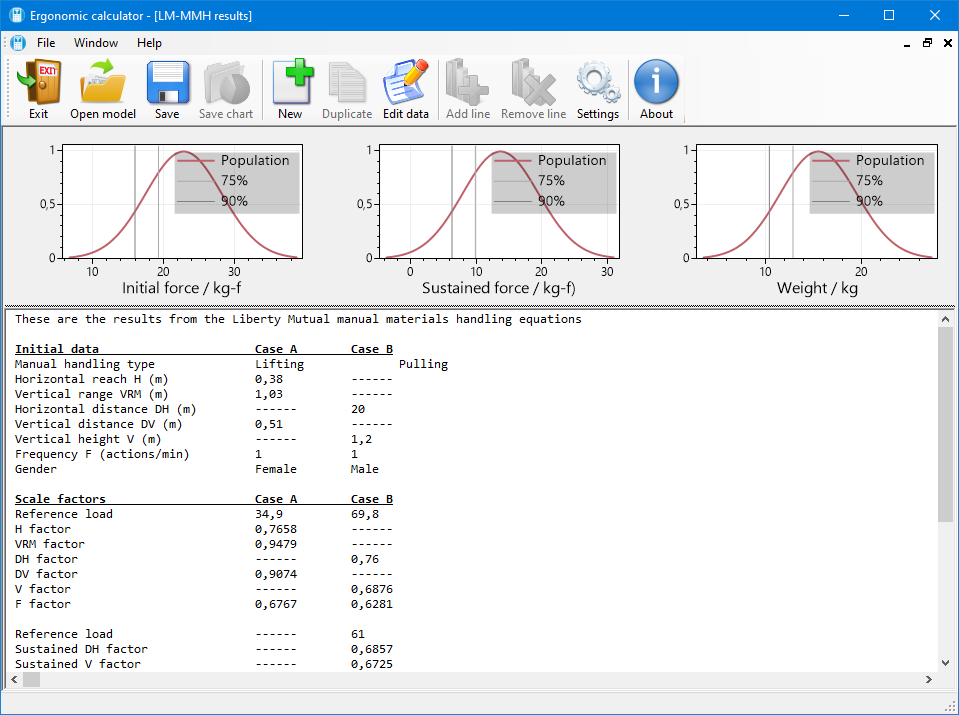
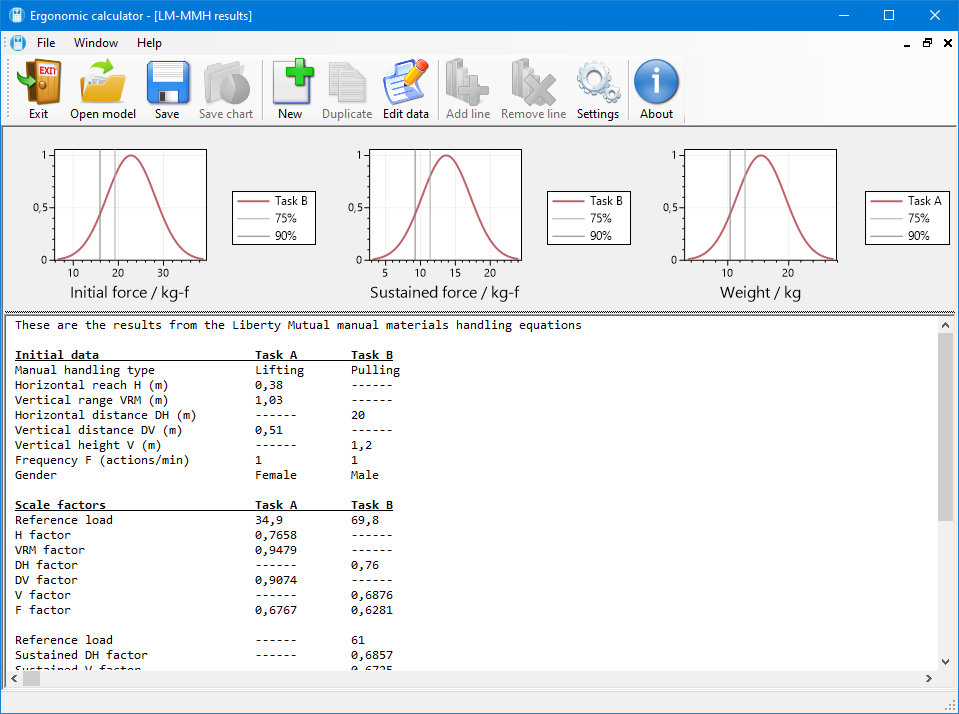
Update to version 1.6

diff --git a/ErgoCalc/frmResultsLiberty.Designer.cs b/ErgoCalc/frmResultsLiberty.Designer.cs
@@ -29,7 +29,6 @@ namespace ErgoCalc
         /// </summary>
         private void InitializeComponent()
         {
-            this.components = new System.ComponentModel.Container();
             this.splitContainer1 = new System.Windows.Forms.SplitContainer();
             this.propertyGrid1 = new System.Windows.Forms.PropertyGrid();
             this.splitContainer2 = new System.Windows.Forms.SplitContainer();
@@ -108,7 +107,7 @@ namespace ErgoCalc
             this.tableLayoutPanel1.ColumnStyles.Add(new System.Windows.Forms.ColumnStyle(System.Windows.Forms.SizeType.Percent, 33.33444F));
             this.tableLayoutPanel1.ColumnStyles.Add(new System.Windows.Forms.ColumnStyle(System.Windows.Forms.SizeType.Absolute, 90F));
             this.tableLayoutPanel1.ColumnStyles.Add(new System.Windows.Forms.ColumnStyle(System.Windows.Forms.SizeType.Percent, 33.33112F));
-            this.tableLayoutPanel1.ColumnStyles.Add(new System.Windows.Forms.ColumnStyle(System.Windows.Forms.SizeType.Absolute, 90F));
+            this.tableLayoutPanel1.ColumnStyles.Add(new System.Windows.Forms.ColumnStyle(System.Windows.Forms.SizeType.Absolute, 95F));
             this.tableLayoutPanel1.Controls.Add(this.formsPlot1, 0, 0);
             this.tableLayoutPanel1.Controls.Add(this.formsPlot3, 4, 0);
             this.tableLayoutPanel1.Controls.Add(this.formsPlot2, 2, 0);
@@ -120,7 +119,6 @@ namespace ErgoCalc
             this.tableLayoutPanel1.Name = "tableLayoutPanel1";
             this.tableLayoutPanel1.RowCount = 1;
             this.tableLayoutPanel1.RowStyles.Add(new System.Windows.Forms.RowStyle(System.Windows.Forms.SizeType.Percent, 100F));
-            this.tableLayoutPanel1.RowStyles.Add(new System.Windows.Forms.RowStyle(System.Windows.Forms.SizeType.Absolute, 20F));
             this.tableLayoutPanel1.Size = new System.Drawing.Size(687, 199);
             this.tableLayoutPanel1.TabIndex = 2;
             // 
@@ -129,10 +127,11 @@ namespace ErgoCalc
             this.formsPlot1.Anchor = ((System.Windows.Forms.AnchorStyles)((((System.Windows.Forms.AnchorStyles.Top | System.Windows.Forms.AnchorStyles.Bottom) 
             | System.Windows.Forms.AnchorStyles.Left) 
             | System.Windows.Forms.AnchorStyles.Right)));
+            this.formsPlot1.BackColor = System.Drawing.Color.Transparent;
             this.formsPlot1.Location = new System.Drawing.Point(4, 3);
             this.formsPlot1.Margin = new System.Windows.Forms.Padding(4, 3, 4, 3);
             this.formsPlot1.Name = "formsPlot1";
-            this.formsPlot1.Size = new System.Drawing.Size(131, 193);
+            this.formsPlot1.Size = new System.Drawing.Size(129, 193);
             this.formsPlot1.TabIndex = 3;
             // 
             // formsPlot3
@@ -140,10 +139,11 @@ namespace ErgoCalc
             this.formsPlot3.Anchor = ((System.Windows.Forms.AnchorStyles)((((System.Windows.Forms.AnchorStyles.Top | System.Windows.Forms.AnchorStyles.Bottom) 
             | System.Windows.Forms.AnchorStyles.Left) 
             | System.Windows.Forms.AnchorStyles.Right)));
-            this.formsPlot3.Location = new System.Drawing.Point(462, 3);
+            this.formsPlot3.BackColor = System.Drawing.Color.Transparent;
+            this.formsPlot3.Location = new System.Drawing.Point(458, 3);
             this.formsPlot3.Margin = new System.Windows.Forms.Padding(4, 3, 4, 3);
             this.formsPlot3.Name = "formsPlot3";
-            this.formsPlot3.Size = new System.Drawing.Size(130, 193);
+            this.formsPlot3.Size = new System.Drawing.Size(129, 193);
             this.formsPlot3.TabIndex = 6;
             // 
             // formsPlot2
@@ -151,16 +151,17 @@ namespace ErgoCalc
             this.formsPlot2.Anchor = ((System.Windows.Forms.AnchorStyles)((((System.Windows.Forms.AnchorStyles.Top | System.Windows.Forms.AnchorStyles.Bottom) 
             | System.Windows.Forms.AnchorStyles.Left) 
             | System.Windows.Forms.AnchorStyles.Right)));
-            this.formsPlot2.Location = new System.Drawing.Point(233, 3);
+            this.formsPlot2.BackColor = System.Drawing.Color.Transparent;
+            this.formsPlot2.Location = new System.Drawing.Point(231, 3);
             this.formsPlot2.Margin = new System.Windows.Forms.Padding(4, 3, 4, 3);
             this.formsPlot2.Name = "formsPlot2";
-            this.formsPlot2.Size = new System.Drawing.Size(131, 193);
+            this.formsPlot2.Size = new System.Drawing.Size(129, 193);
             this.formsPlot2.TabIndex = 2;
             // 
             // pictureBox1
             // 
             this.pictureBox1.Dock = System.Windows.Forms.DockStyle.Fill;
-            this.pictureBox1.Location = new System.Drawing.Point(142, 3);
+            this.pictureBox1.Location = new System.Drawing.Point(140, 3);
             this.pictureBox1.Name = "pictureBox1";
             this.pictureBox1.Size = new System.Drawing.Size(84, 193);
             this.pictureBox1.SizeMode = System.Windows.Forms.PictureBoxSizeMode.CenterImage;
@@ -170,7 +171,7 @@ namespace ErgoCalc
             // pictureBox2
             // 
             this.pictureBox2.Dock = System.Windows.Forms.DockStyle.Fill;
-            this.pictureBox2.Location = new System.Drawing.Point(371, 3);
+            this.pictureBox2.Location = new System.Drawing.Point(367, 3);
             this.pictureBox2.Name = "pictureBox2";
             this.pictureBox2.Size = new System.Drawing.Size(84, 193);
             this.pictureBox2.SizeMode = System.Windows.Forms.PictureBoxSizeMode.CenterImage;
@@ -180,9 +181,9 @@ namespace ErgoCalc
             // pictureBox3
             // 
             this.pictureBox3.Dock = System.Windows.Forms.DockStyle.Fill;
-            this.pictureBox3.Location = new System.Drawing.Point(599, 3);
+            this.pictureBox3.Location = new System.Drawing.Point(594, 3);
             this.pictureBox3.Name = "pictureBox3";
-            this.pictureBox3.Size = new System.Drawing.Size(85, 193);
+            this.pictureBox3.Size = new System.Drawing.Size(90, 193);
             this.pictureBox3.SizeMode = System.Windows.Forms.PictureBoxSizeMode.CenterImage;
             this.pictureBox3.TabIndex = 9;
             this.pictureBox3.TabStop = false;

diff --git a/ErgoCalc/frmResultsLiberty.cs b/ErgoCalc/frmResultsLiberty.cs
@@ -150,12 +150,12 @@ namespace ErgoCalc
                     case MNType.Pulling:
                     case MNType.Pushing:
                         CreatePlot(data.Initial.MAL, data.Initial.MAL * data.Initial.CV, 1, strLegend);        // Initial force plot
-                        CreatePlot(data.Sustained.MAL, data.Initial.MAL * data.Sustained.CV, 2, strLegend);    // Sustained force plot
+                        CreatePlot(data.Sustained.MAL, data.Sustained.MAL * data.Sustained.CV, 2, strLegend);    // Sustained force plot
                         break;
                     case MNType.Carrying:
                     case MNType.Lifting:
                     case MNType.Lowering:
-                        CreatePlot(data.Initial.MAL, data.Initial.MAL * data.Initial.CV, 3, strLegend);        // Weigth plot
+                        CreatePlot(data.Initial.MAL, data.Initial.MAL * data.Initial.CV, 3, strLegend);        // Weight plot
                         break;
                 }
                 ++i;
@@ -208,8 +208,8 @@ namespace ErgoCalc
             var limit75 = mean - std * 0.674489750196082;
             var limit90 = mean - std * 1.281551565544601;
 
-            plot.Plot.AddVerticalLine(x: limit75, color: Color.DarkGray, width: 1.2f, style: LineStyle.Solid);
-            plot.Plot.AddVerticalLine(x: limit90, color: Color.Gray, width: 1.2f, style: LineStyle.Solid);
+            plot.Plot.AddVerticalLine(x: limit75, color: Color.DarkGray, width: 1.2f, style: LineStyle.Solid).Label = "75%";
+            plot.Plot.AddVerticalLine(x: limit90, color: Color.Gray, width: 1.2f, style: LineStyle.Solid).Label = "90%";
             plot.Plot.SetAxisLimits(yMin: 0, yMax: null);
             plot.Plot.AxisAutoX();
             //plot.Plot.TightenLayout(padding: 1);

diff --git a/ErgoCalc/Properties/AssemblyInfo.cs b/ErgoCalc/Properties/AssemblyInfo.cs
@@ -32,8 +32,8 @@ using System.Runtime.InteropServices;
 // You can specify all the values or you can default the Build and Revision Numbers 
 // by using the '*' as shown below:
 // [assembly: AssemblyVersion("1.0.*")]
-[assembly: AssemblyVersion("1.0.0.0")]
-[assembly: AssemblyFileVersion("1.0.0.0")]
+[assembly: AssemblyVersion("1.6.0.0")]
+[assembly: AssemblyFileVersion("1.6.0.0")]
 
 // Needed to avoid warnings for ScottPlot 4.0.48
-[assembly: System.Runtime.Versioning.SupportedOSPlatform("windows7.0")]
+//[assembly: System.Runtime.Versioning.SupportedOSPlatform("windows7.0")]

diff --git a/changelog.md b/changelog.md
@@ -1,0 +1,11 @@
+# ErgoCalculator Changelog
+
+## ErgoCalculator 1.6
+* ScottPlot control has been upgraded from version 4.0.48 to version 4.1.16
+* Fixed sustained force MAL 75% and MAL 90% computatios
+
+## ErgoCalculator 1.5
+* This version extends the number of kernel models with respect to previous v1.0 and offers an improved user interface experience.
+* A file format with extension ERGO has been defined for many models so that output calculations can be stored and later retrieved.
+* Serveral examples are included in the folder examples, showing how data for each model should be input.
+* The text results can be either saved to RTF and TXT format of simple copied (Ctrl+C) and later pasted.

diff --git a/README.md b/README.md
@@ -10,6 +10,12 @@ Sponsor this project!
 
 [![paypal](https://www.paypalobjects.com/en_US/i/btn/btn_donateCC_LG.gif)](https://www.paypal.com/paypalme/ArthuritsLtd)
 
+## Use and installation
+This download is a portable software. Please follow this instructions:
+* Dowload the file
+* Unzip the contents to your desired folder
+* Execute (or create a direct link to) ErgoCalcLauncher.exe
+
 ## Functionalities
 * Work-rest model developed by J. Dul, M. Douwes, M., and P Smitt in 1991 and suggested in [ISO 11226:2000 — Evaluation of static working postures](https://www.iso.org/standard/25573.html)
 ![WR model](/Media/WRmodel.png?raw=true "WR model")
